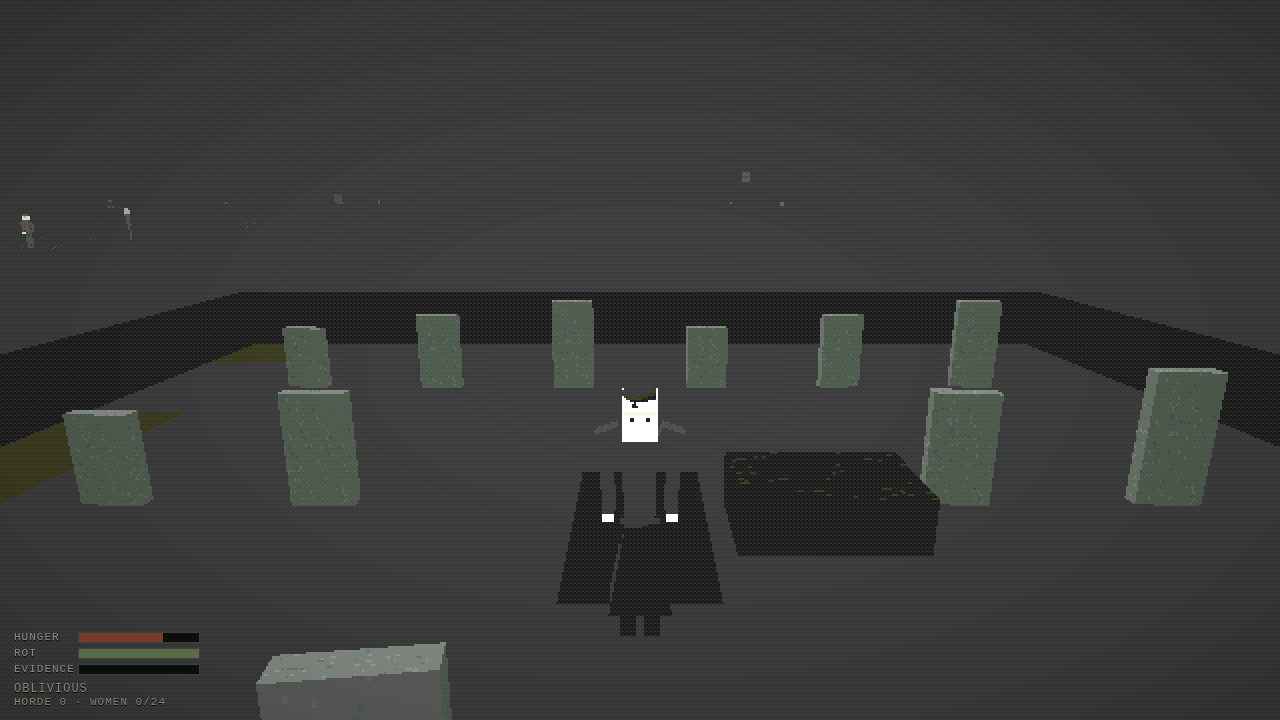
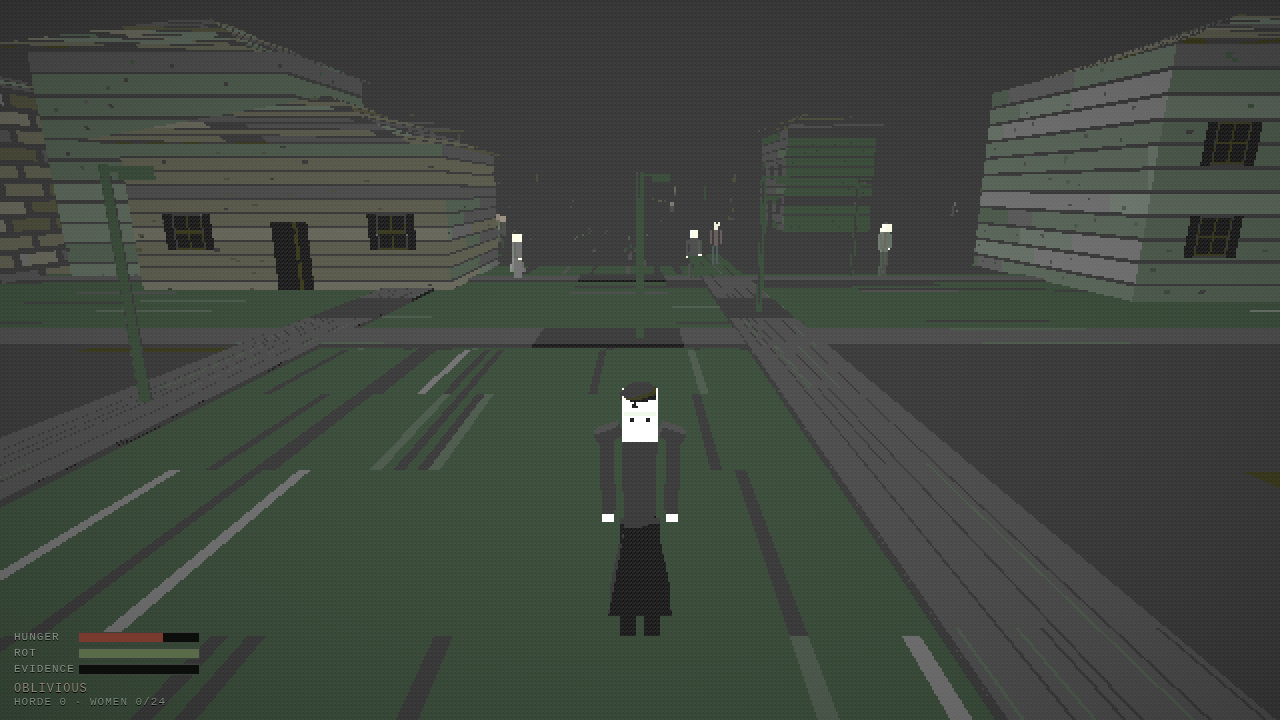
smoke: street-start vantage for critic shots (?start=street) + graveyard shot

diff --git a/src/main.js b/src/main.js
@@ -50,7 +50,12 @@ for (const lp of town.lampPositions.slice(0, 16)) {
 
 // player
 const player = makePlayer();
-player.position.set(town.playerSpawn.x, 0, town.playerSpawn.z);
+const startOverride = new URLSearchParams(location.search).get('start');
+if (startOverride === 'street') {
+  player.position.set(2, 0, 14); // mid main avenue, buildings in view
+} else {
+  player.position.set(town.playerSpawn.x, 0, town.playerSpawn.z);
+}
 scene.add(player);
 
 // systems
